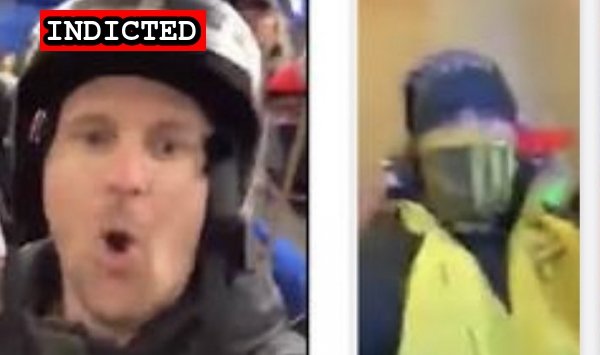
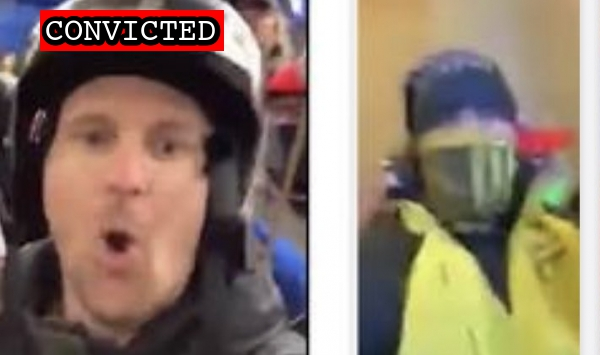
Guilty pleas

Changed region(s): [[0.06, 0.0, 0.39, 0.1549]]

diff --git a/docs/_suspects/graydon-young.md b/docs/_suspects/graydon-young.md
@@ -34,16 +34,13 @@ published: true
 caseNumber: 1:21-cr-28
 videos:
 charges:
-- code: 18 USC § 371
-  title: Conspiracy to commit an offense against the United States
-  url: https://www.law.cornell.edu/uscode/text/18/371
-  felony: true
-- code: 18 USC § 1512(c)(2)
-  title: Obstruction of Congress
-  url: https://www.law.cornell.edu/uscode/text/18/1512
-  felony: true
+  - code: 18 USC § 371
+    title: Conspiracy to commit an offense against the United States
+    url: https://www.law.cornell.edu/uscode/text/18/371
+    felony: true
 sentence:
 ---
+
 - [News Report](https://www.cbsnews.com/news/capitol-riot-oath-keepers-indicted-conspiracy/)
 - [Complaint](https://www.justice.gov/usao-dc/case-multi-defendant/file/1369076/download)
 - [Indictment](https://www.justice.gov/usao-dc/case-multi-defendant/file/1378526/download)

diff --git a/docs/_suspects/jacob-fracker.md b/docs/_suspects/jacob-fracker.md
@@ -4,15 +4,15 @@ lastName: Fracker
 hashtag: JacobFracker
 aka:
 residence: Virginia
-status: Indicted
+status: Convicted
 date: 2021-01-13
 charged: 2021-01-13
 indicted: 2021-01-29
-convicted: 
+convicted: 2022-03-18
 sentenced: 
 dismissed: 
 deceased:
-plea_hearing:
+plea_hearing: 2022-03-18
 sentencing:
 age: 29
 occupation: Police Officer (Former Military)
@@ -34,6 +34,10 @@ published: true
 caseNumber: 1:21-cr-34
 videos:
 charges:
+- code: 18 USC § 5104(e)(2)(G)
+  title: Parading, demonstrating or picketing in a Capitol building
+  url: https://www.law.cornell.edu/uscode/text/40/5104
+  felony: false
 sentence:
 ---
 - [News Report](https://roanoke.com/news/local/2-rocky-mount-police-officers-who-were-in-capitol-during-riot-face-federal-charges/article_756e0a1a-55c9-11eb-aac5-23258d074867.html)

diff --git a/docs/_suspects/derrick-evans.md b/docs/_suspects/derrick-evans.md
@@ -4,15 +4,15 @@ lastName: Evans
 hashtag: DerrickEvans
 aka:
 residence: West Virginia
-status: Indicted
+status: Convicted
 date: 2021-01-08
 charged: 2021-01-08
 indicted: 2021-06-30
-convicted:
+convicted: 2022-03-18
 sentenced:
 dismissed:
 deceased:
-plea_hearing:
+plea_hearing: 2022-03-18
 sentencing:
 age: 35
 occupation: West Viriginia Delegate
@@ -34,6 +34,10 @@ published: true
 caseNumber: 1:21-cr-337
 videos:
 charges:
+  - code: 18 USC § 231(a)(3)
+    title: Civil Disorder
+    url: https://www.law.cornell.edu/uscode/text/18/231
+    felony: true
 sentence:
 ---
 
